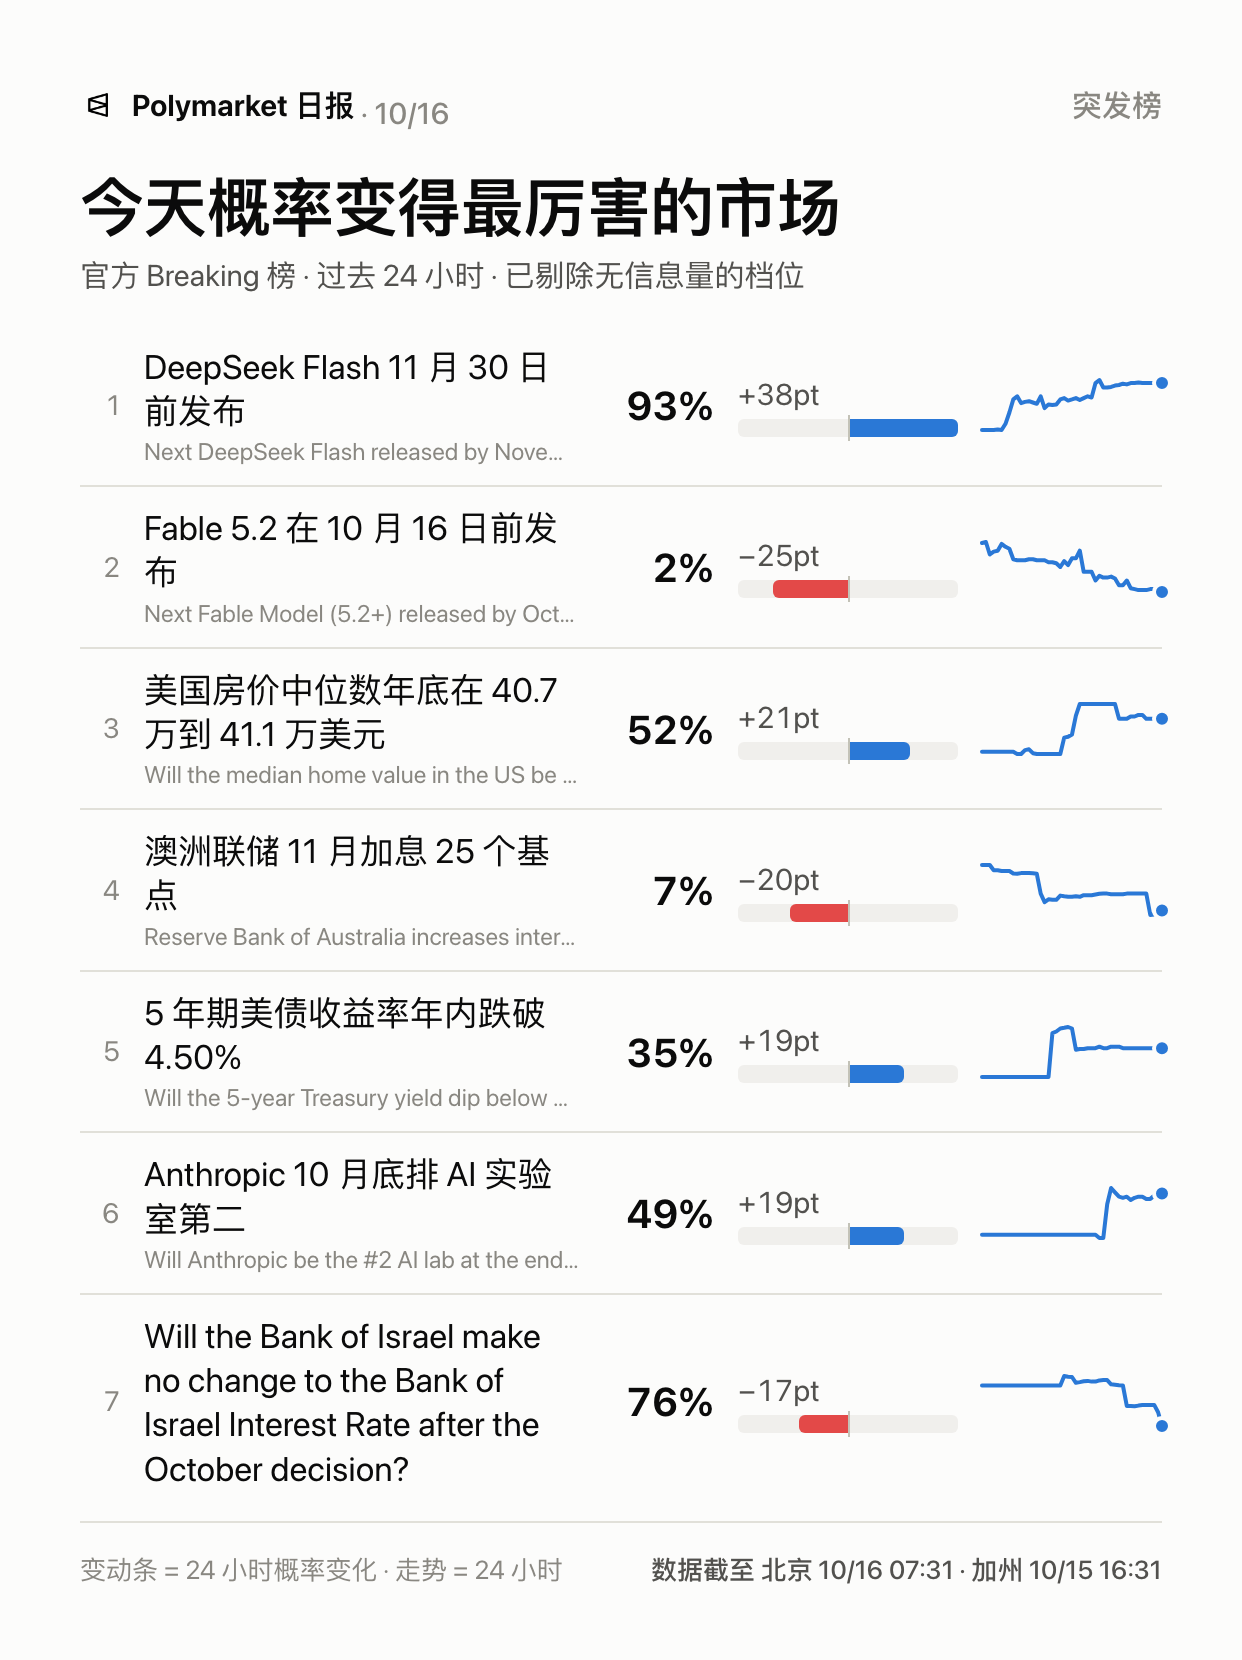
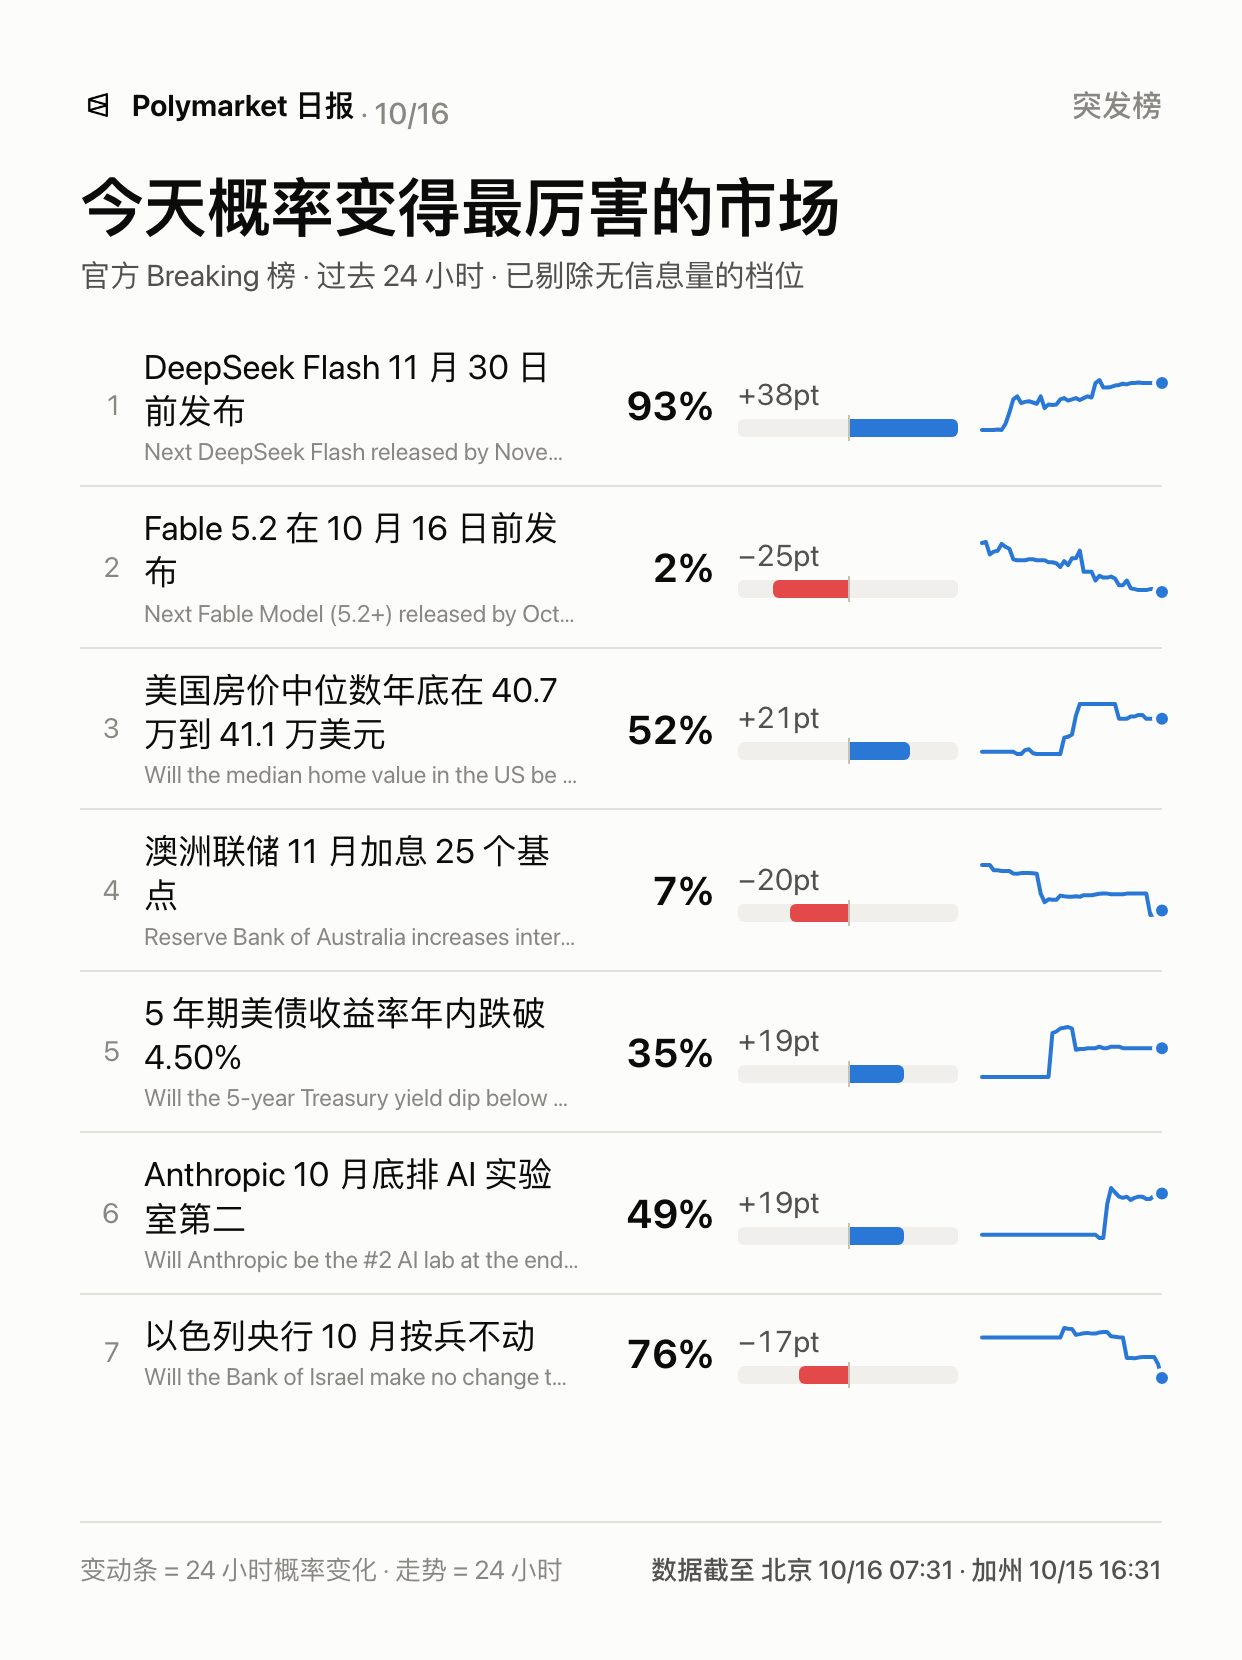
Chinese-coverage check for the six cards; plain-language writing rules; fill today's missing labels

diff --git a/scripts/check_zh.py b/scripts/check_zh.py
@@ -1,0 +1,130 @@
+#!/usr/bin/env python3
+"""Verify that every row the six Xiaohongshu cards will show has a Chinese label.
+
+    python3 scripts/check_zh.py [YYYY-MM-DD]
+
+Exit 0 when complete. Exit 1 and list what is missing otherwise, in the exact
+JSON shape to add to reports/<date>.zh.json. Mirrors the row selection in
+assets/shared.js (officialRows / hotRows / resolvedRows / newRows).
+"""
+from __future__ import annotations
+
+import json
+import re
+import sys
+from pathlib import Path
+
+ROOT = Path(__file__).resolve().parent.parent
+GROUPS = {"politics": ["politics", "world"], "finance": ["finance", "crypto"], "tech": ["tech"]}
+DOMAINS = ["politics", "finance", "tech"]
+# Outcome labels that need no translation: built into shared.js, dates, numbers, arrows, proper nouns.
+BUILTIN = {"Yes", "No", "No change", "Democratic Party", "Republican Party", "Democrats Sweep", "Republicans Sweep",
+           "R Senate, D House", "D Senate, R House", "25 bps increase", "50+ bps increase", "25 bps decrease",
+           "50+ bps decrease", "Other"}
+DATE = re.compile(r"^(January|February|March|April|May|June|July|August|September|October|November|December) \d{1,2}(, \d{4})?$")
+NUMERIC = re.compile(r"^[↑↓<>≥≤]?\s*[\$€£]?[\d.,]+[%+kKMB]*(\s*[-–]\s*[\$]?[\d.,]+[%kKMB]*)?\+?$")
+PROPER = re.compile(r"^(?:[A-Z][\w'’.\-]*)(?:\s(?:de|da|do|von|van|of|the|bin|al|el|&|[A-Z][\w'’.\-]*))*$")
+
+
+def by_abs_change(rows):
+    return sorted(rows, key=lambda m: abs(m.get("change1d") or 0), reverse=True)
+
+
+def official_rows(day, group, skip, n=8):
+    seen, out = set(), []
+    for m in by_abs_change([m for c in GROUPS[group] for m in day["official"].get(c, [])]):
+        if m["question"] in seen or m["question"] in skip:
+            continue
+        seen.add(m["question"])
+        out.append(m)
+    return out[:n]
+
+
+def breaking_rows(day, skip, n=8):
+    rows = by_abs_change([m for g in GROUPS for m in official_rows(day, g, skip)])
+    seen, out = set(), []
+    for m in rows:
+        if m["question"] not in seen:
+            seen.add(m["question"])
+            out.append(m)
+    return out[:n]
+
+
+def hot_rows(day, n=8):
+    pinned = [e for d in DOMAINS for e in day["hot"][d] if e.get("pinned")]
+    rest = [e for d in DOMAINS for e in day["hot"][d][:3] if not e.get("pinned")]
+    return (pinned + rest)[:n]
+
+
+def resolved_rows(day, n=8):
+    seen, out = set(), []
+    for r in sorted((r for d in DOMAINS for r in day["resolved"][d]), key=lambda r: r["volume"], reverse=True):
+        if r["question"] not in seen:
+            seen.add(r["question"])
+            out.append(r)
+    return out[:n]
+
+
+def new_rows(day, n=6):
+    posts = [p["text"] for p in day["feed"] if p["kind"] == "new"]
+    seen = set(posts)
+    titles = posts + [e["title"] for d in DOMAINS for e in day["new"][d] if not (e["title"] in seen or seen.add(e["title"]))]
+    return titles[:n]
+
+
+def outcome_ok(label: str, zh: dict) -> bool:
+    return (label in BUILTIN or label in zh.get("outcomes", {}) or bool(DATE.match(label))
+            or bool(NUMERIC.match(label)) or bool(PROPER.match(label)) or bool(re.search(r"[一-鿿]", label)))
+
+
+def main() -> int:
+    date = sys.argv[1] if len(sys.argv) > 1 else json.loads((ROOT / "data" / "index.json").read_text())["latest"]
+    day = json.loads((ROOT / "data" / f"{date}.json").read_text())
+    zh_path = ROOT / "reports" / f"{date}.zh.json"
+    try:
+        zh = json.loads(zh_path.read_text())
+    except FileNotFoundError:
+        print(f"[error] {zh_path.name} 不存在", file=sys.stderr)
+        return 1
+    labels, skip = zh.get("labels", {}), set(zh.get("skip", []))
+    missing_labels, missing_outcomes, missing_fields = [], [], []
+
+    for key in ("headline", "hero", "headlineQuestion", "headlineTitle"):
+        if not zh.get(key):
+            missing_fields.append(key)
+
+    need = []
+    need += [("突发榜", m["question"]) for m in breaking_rows(day, skip)]
+    for e in hot_rows(day):
+        need.append(("长期盘", e["title"]))
+        rungs = e["outcomes"][:3] if e["kind"] == "exclusive" else e["outcomes"][:4]
+        for o in rungs:
+            if o["label"] and not outcome_ok(o["label"], zh):
+                missing_outcomes.append(o["label"])
+    need += [("结算", r["question"]) for r in resolved_rows(day)]
+    need += [("新盘", t) for t in new_rows(day)]
+    if zh.get("headlineQuestion"):
+        need.append(("头条", zh["headlineQuestion"]))
+    for card, q in need:
+        if q not in labels or not re.search(r"[一-鿿]", labels[q]):
+            missing_labels.append((card, q))
+
+    if not (missing_labels or missing_outcomes or missing_fields):
+        print(f"[ok] {date}: 六张图上的 {len(need)} 行都有中文", file=sys.stderr)
+        return 0
+    print(f"[fail] {date}: 中文覆盖不完整，把下面的内容补进 reports/{date}.zh.json", file=sys.stderr)
+    if missing_fields:
+        print("缺少字段: " + ", ".join(missing_fields))
+    if missing_labels:
+        print('"labels" 需要补:')
+        for card, q in missing_labels:
+            print(f'  {json.dumps(q, ensure_ascii=False)}: "<{card}·中文短标题>",')
+    if missing_outcomes:
+        print('"outcomes" 需要补（选项名）:')
+        for o in dict.fromkeys(missing_outcomes):
+            print(f'  {json.dumps(o, ensure_ascii=False)}: "<中文>",')
+    return 1
+
+
+if __name__ == "__main__":
+    sys.exit(main())

diff --git a/ROUTINE.md b/ROUTINE.md
@@ -28,12 +28,24 @@ python3 scripts/fetch.py
 - 候选里领域为 `culture` 的是文化体育市场（赛事、电影、音乐、游戏），最多 2 条，固定放正文末尾，标签"文体"。没有带数字的文体条目就不写，不从快讯里找猎奇新闻凑。
 - 像样的不够 4 条就写 3 条加一句"今天市场很安静"，不凑数。
 
-**写法**
+**写法：让没接触过预测市场的人也能看懂这个概率变化是什么意思**
 
-- 每条一行，35 到 45 字，快讯体：先写发生了什么，市场数字放句尾当证据，必须有"从多少到多少"或"现在多少"。
+每条由两个半句组成，35 到 50 字：
+
+1. **事实句**：发生了什么，或者市场在押什么。用白话说清楚这个盘在问什么，不要直译英文题目。
+   - 不要："以色列央行不变 57% ↓36"
+   - 要："市场突然认为以色列央行 10 月会动利率，按兵不动的概率一天从 93% 跌到 57%"
+2. **市场句**：市场的判断从多少变到多少，或者现在多少。数字放句尾。
+
+规则：
+
 - 行首加两字标签：政经、财经、科技、海外、文体。同标签相邻，按重要性排，文体在最后。
-- 候选里给的"可能的原因"要核对相关性，不相关就只陈述市场变化。不自己编原因。
-- 数字照抄摘要。标题翻译成中文，人名、公司名、代币名保留英文。
+- 变化的方向要用人话翻一遍："从 27% 直接结算"写成"市场原本只给 27%，结果真发生了"；"跌到 2%"写成"基本没戏了"。
+- 已结算的盘写"已成定局"或"答案出来了"，别只写 100%。
+- 梯子盘写市场中位估计："市场认为 10 年期年内顶部大约在 5.0 到 5.2%"。
+- 候选里给的"可能的原因"要核对相关性，相关就接在事实句里，不相关就不写。不自己编原因。
+- 数字照抄摘要。人名、公司名、代币名保留英文，其余全部中文。
+- 不出现 pt、bps 这类缩写，写"个百分点""个基点"。
 
 **格式**
 
@@ -68,9 +80,17 @@ Dashboard 和卡片页用它把英文换成中文。结构：
 }
 ```
 
-- `labels` 至少覆盖：突发榜前 8、三类热门各前 6、结算前 8、新盘前 6 的标题，摘要里都有。
+- `labels` 是白话短标题（不超过 22 字），不是直译："Will the Bank of Israel make no change…" 写成"以色列央行 10 月按兵不动"。六张图上出现的每一行都必须有，下一步会校验。
 - `outcomes` 只填选项里的普通名词（党派、"不变"之类已内置，人名公司名不用翻）。
 - `picked` 必须填，是 7 天去重的依据。`hero.value` 用"起点 → 终点"写法。
+
+## 3.5 校验中文覆盖
+
+```bash
+python3 scripts/check_zh.py
+```
+
+它会列出六张图上还是英文的每一行，按它给的 JSON 片段补进 `zh.json`，再跑一次，直到打印 `[ok]`。不通过不要进入下一步。
 
 ## 4. 生成图片
 

diff --git a/CLAUDE.md b/CLAUDE.md
@@ -6,6 +6,7 @@
 
 - `scripts/fetch.py` — 唯一的数据脚本，纯标准库。分 config / http / shaping / sources / scoring / summary / main 七段。写 `data/<日期>.json`，打印摘要。
 - `scripts/render_cards.py` — 把 `cards.html` 截成 PNG 到 `cards/<日期>/`。
+- `scripts/check_zh.py` — 校验六张图上每一行都有中文标签，缺的按 JSON 片段补进 `*.zh.json`。
 - `assets/shared.js` — 两个页面共用的格式化、中文覆盖、图表（份额条、档位条、走势图）。
 - `index.html` Dashboard、`cards.html` 卡片页，都是静态页，无构建。
 - `reports/<日期>.xhs.md` 正文、`reports/<日期>.zh.json` 中文覆盖与已选条目，由定时代理按 `ROUTINE.md` 写。
